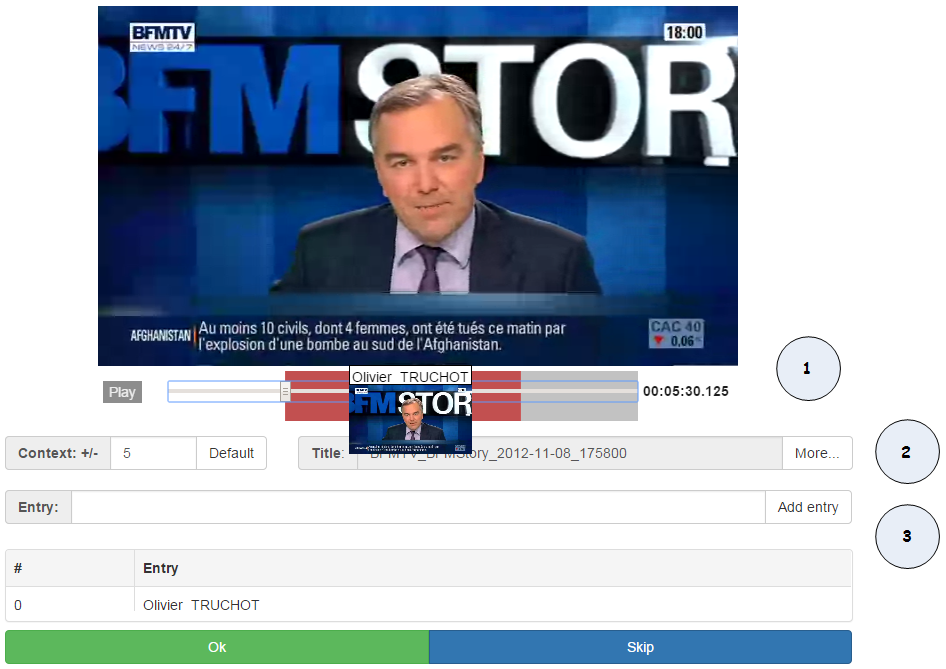
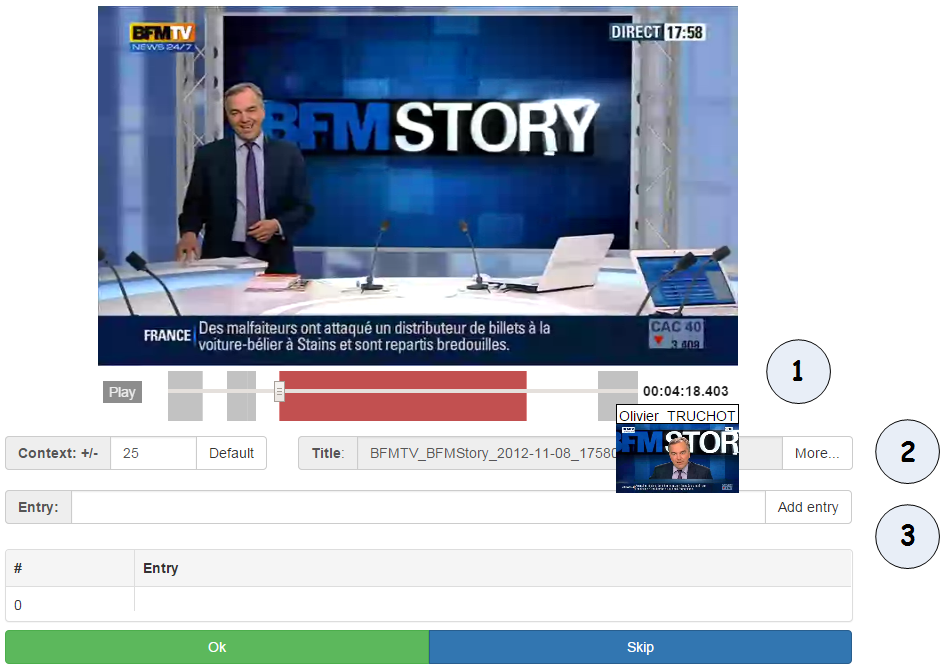
Modified the front-end picture and caption

diff --git a/Camomile.tex b/Camomile.tex
@@ -83,7 +83,7 @@ The server component provides access and basic CRUD operations (create, update, 
 \begin{figure}[h]
 	\centering
  	\includegraphics[width=0.4\textwidth]{camomile_ui-bis.png}
-	\caption{Overview of the web front-end UI. 1) Video player displaying the track to annotate and the synchronized \emph{context bar}. 2) The \emph{context bar} configuration and the metadata field. The latter displays the video title, and reveals additional details when activated. 3) The textfield to type the annotation. Multiple annotations are supported, and summarized in a table.}
+	\caption{Overview of the web front-end UI. 1) Video player displaying the track to annotate and the synchronized \emph{context bar}. The red glyph shows the track to annotate, and additional annotations appear in light gray. 2) The \emph{context bar} configuration and the metadata field. The latter displays the video title, and reveals additional details when activated. 3) The textfield to type the annotation. Multiple annotations are supported, and summarized in a table.} 
 	\label{fig:frontend}
 
 \end{figure}
